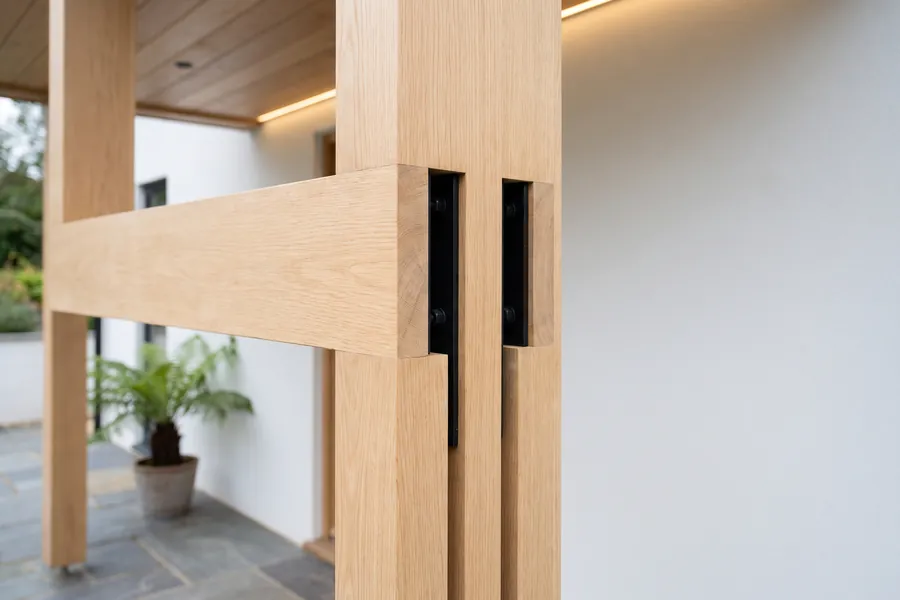
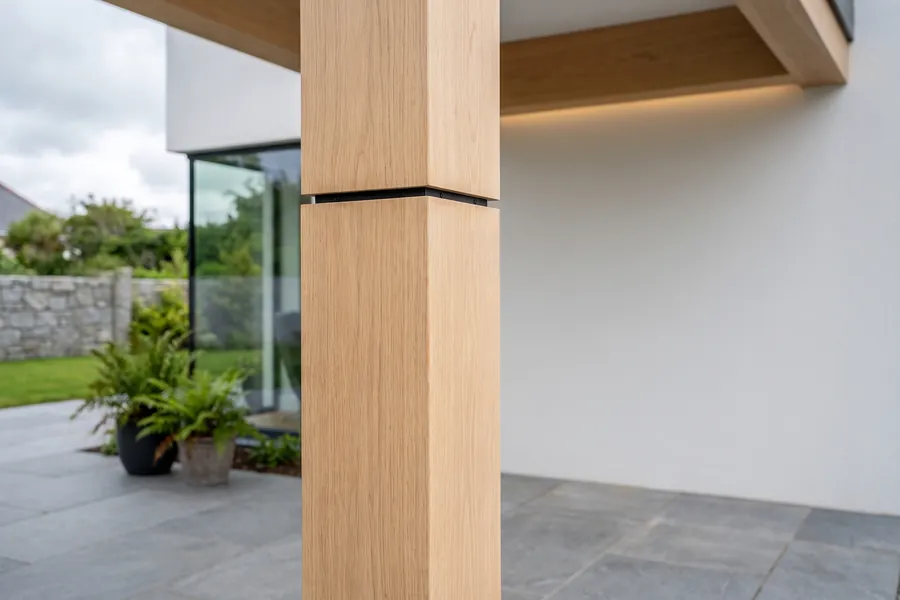
fix: no subir los originales de Nano Banana; foto 28 rehecha
- .gitignore ignora toda la carpeta fotos-nanobanana/ (salvo LEEME.txt): se habían subido los .jfif
- import_images --por-orden ignora los .anterior al asignar

diff --git a/scripts/import_images.py b/scripts/import_images.py
@@ -38,7 +38,8 @@ def main() -> None:
     images = [p for p in args.src.glob("*") if p.suffix.lower() in (".png", ".jpg", ".jpeg", ".jfif", ".webp")]
     if args.por_orden:
         known = {Path(r["guardar_como"]).stem.lower() for r in rows}
-        loose = sorted((p for p in images if p.stem.lower() not in known), key=lambda p: p.stat().st_mtime)
+        loose = sorted((p for p in images if p.stem.lower() not in known and not p.stem.endswith(".anterior")),
+                       key=lambda p: p.stat().st_mtime)
         named = {p.stem.lower() for p in images}
         if args.rehacer:  # sustituir fotos ya hechas, en el orden indicado
             wanted = [int(n) for n in args.rehacer.split(",") if n.strip()]
